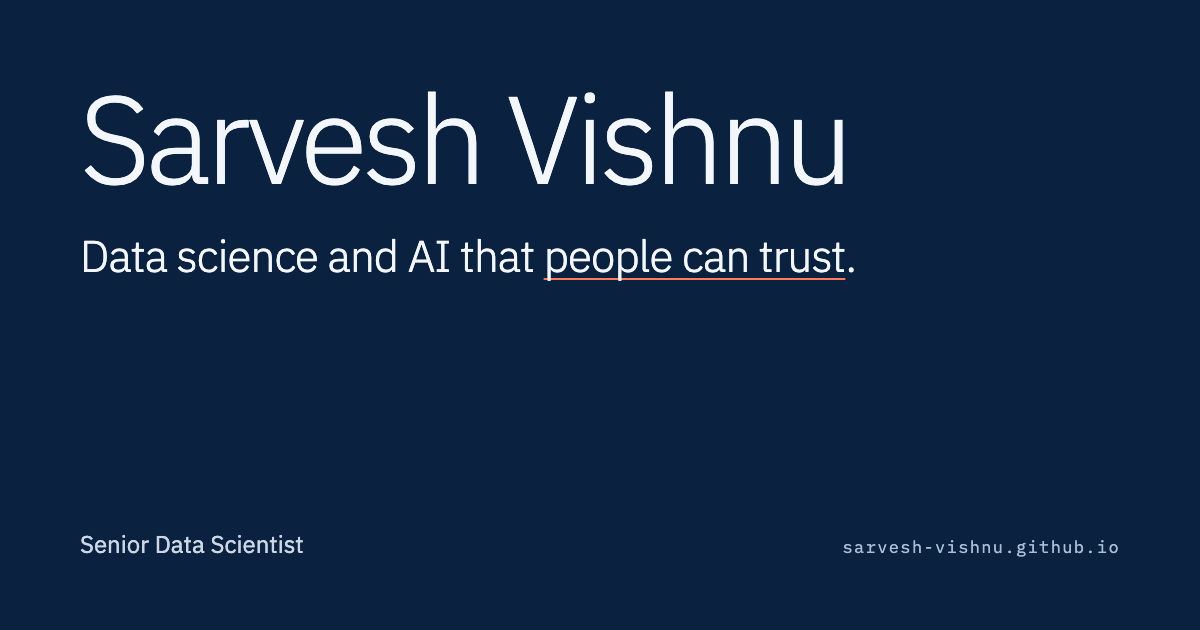
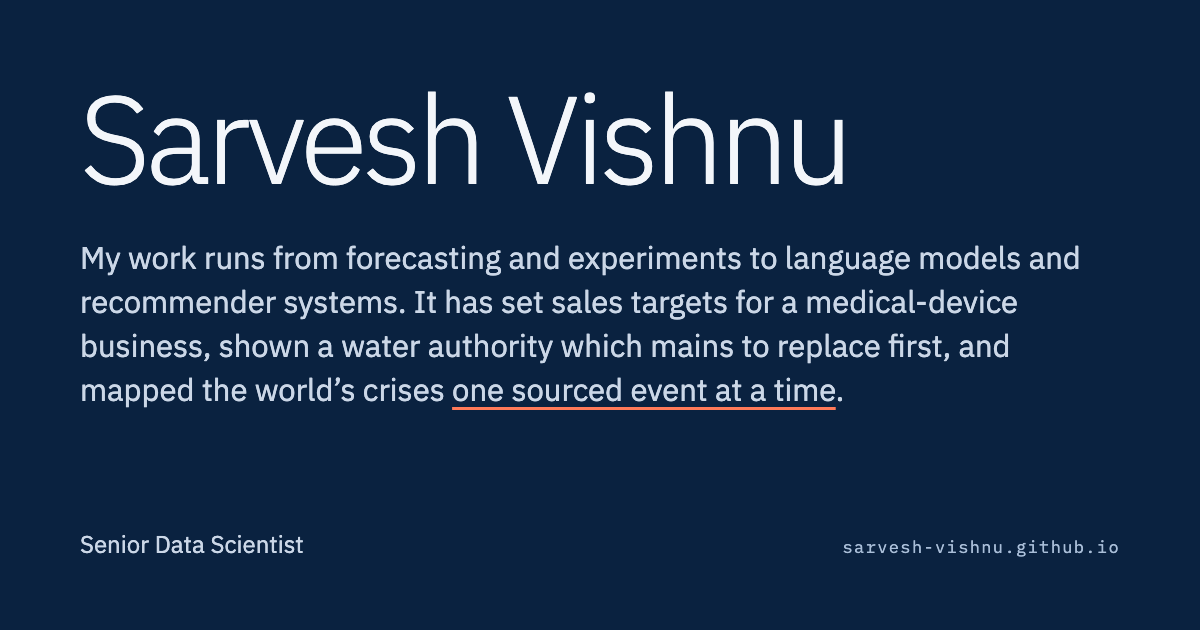
No stated claim in the hero: the name, then what the work has done
The line "Data science and AI that people can trust." is removed at the
owner's request: the value should show through the work, not be announced.
The redline moves into the paragraph, under "one sourced event at a time".
The paragraph steps up on a wide sheet. Descriptions and the share card
follow the page.

design.md §14.26.

Changed region(s): [[0.0617, 0.3619, 0.925, 0.573], [0.0617, 0.6032, 0.7092, 0.6635]]

diff --git a/styles.css b/styles.css
@@ -282,10 +282,11 @@ body {
 }
 
 /* -------------------------------------------------------------
-   Hero: the first sheet (design.md §14.16, §14.17, §14.24, §14.25)
-   The name, then one statement with a redline under what the work is
-   for, then two sentences of proof. Role and links along the foot.
-   No figure, no frame: the working models start one scroll down.
+   Hero: the first sheet (design.md §14.16, §14.17, §14.24 to §14.26)
+   The name, then two sentences on what the work has done, with the
+   redline under one phrase. Role and links along the foot. No claim
+   about the work is made here (§14.26): the working models start one
+   scroll down and make it themselves.
    ------------------------------------------------------------- */
 .hero {
   position: relative;
@@ -304,14 +305,19 @@ body {
   justify-content: space-between;
   gap: var(--space-16);
 }
-/* the name, the line and its proof travel together, centred above the foot (§14.25) */
+/* the name and the paragraph travel together, centred above the foot (§14.26) */
 .hero-say { margin-top: auto; margin-bottom: auto; }
 .hero-proof {
-  margin-top: var(--space-6);
-  max-width: 58ch;
-  font-size: var(--text-lg);
-  line-height: 1.5;
+  margin-top: var(--space-8);
+  max-width: 54ch;
+  font-size: clamp(var(--text-lg), 1.7vw, var(--text-xl));   /* it follows the name directly, so it steps up on a wide sheet */
+  line-height: 1.45;
   color: var(--ink-soft);
+}
+.hero-proof .redline {                               /* the mark is one stroke, never broken over two lines, */
+  white-space: nowrap;
+  text-decoration-thickness: max(0.055em, 2px);        /* and at reading size it keeps its weight */
+  text-underline-offset: 0.2em;
 }
 .hero-name {
   font-family: var(--font-sans);
@@ -323,16 +329,6 @@ body {
   color: var(--ink);
   text-wrap: balance;
 }
-.thesis {
-  margin-top: var(--space-6);
-  max-width: 30ch;
-  font-weight: 300;
-  font-size: clamp(22px, 2.7vw, var(--text-3xl));
-  line-height: 1.2;
-  letter-spacing: -0.02em;
-  color: var(--ink);
-}
-.thesis .redline { white-space: nowrap; }             /* the mark is one stroke, never broken over two lines */
 /* the redline: one mark, under the words the sentence is for */
 .redline {
   text-decoration: underline;
@@ -1453,7 +1449,6 @@ html.lenis, html.lenis body { height: auto; }
   .hero { min-height: 0; padding: 0 0 10pt; display: block; }
   .hero-inner { display: block; }
   .hero-name { font-size: 21pt; line-height: 1.12; margin: 0 0 3pt; }
-  .thesis { max-width: none; font-size: 12pt; line-height: 1.3; margin: 0 0 5pt; letter-spacing: 0; }
   .hero-say { margin: 0; }
   .hero-proof { display: none; }                      /* the printed page keeps to two sheets; the résumé itself is resume.html */
   .hero-id { display: block; }

diff --git a/index.html b/index.html
@@ -7,13 +7,13 @@
   <meta name="color-scheme" content="dark light" />
 
   <title>Sarvesh Vishnu, Senior Data Scientist</title>
-  <meta name="description" content="Sarvesh Vishnu, senior data scientist. Data science and AI that people can trust: forecasting, experiments, language models and recommender systems, for business, public services and the public interest." />
+  <meta name="description" content="Sarvesh Vishnu, senior data scientist. Forecasting, experiments, language models and recommender systems, for business, public services and the public interest." />
   <meta name="author" content="Sarvesh Vishnu Muhundu Parthiban" />
 
   <meta property="og:type" content="website" />
   <meta property="og:url" content="https://sarvesh-vishnu.github.io/" />
   <meta property="og:title" content="Sarvesh Vishnu, Senior Data Scientist" />
-  <meta property="og:description" content="Data science and AI that people can trust: forecasting, experiments, language models and recommender systems, for business, public services and the public interest." />
+  <meta property="og:description" content="Forecasting, experiments, language models and recommender systems, for business, public services and the public interest." />
   <meta property="og:image" content="https://sarvesh-vishnu.github.io/assets/og-image.png" />
   <meta property="og:image:width" content="1200" />
   <meta property="og:image:height" content="630" />
@@ -81,8 +81,7 @@
       <div class="hero-inner">
         <div class="hero-say">
           <h1 id="hero-title" class="hero-name">Sarvesh Vishnu</h1>
-          <p class="thesis">Data science and AI that <span class="redline">people can trust</span>.</p>
-          <p class="hero-proof">My work runs from forecasting and experiments to language models and recommender systems. It has set sales targets for a medical-device business, shown a water authority which mains to replace first, and mapped the world’s crises one sourced event at a time.</p>
+          <p class="hero-proof">My work runs from forecasting and experiments to language models and recommender systems. It has set sales targets for a medical-device business, shown a water authority which mains to replace first, and mapped the world’s crises <span class="redline">one sourced event at a time</span>.</p>
         </div>
         <div class="hero-id">
           <p class="hero-role">Senior Data Scientist, Strategy &amp; Market Insights at Cooper Surgical</p>

diff --git a/design.md b/design.md
@@ -1262,3 +1262,34 @@ arrangement the owner asked to change).
 
 **Open with the owner.** The résumé still spells "specialization" while the site uses
 British spellings; the owner has not said which to keep.
+
+### 14.26 — No stated claim in the hero
+*Changes: §14.24 and §14.25 (the hero's line). (2026-11-19)*
+
+**Why.** The owner, on seeing §14.25 built: remove "Data science and AI that people can
+trust." "I want it to reflect through the work and not something we draw out. We can
+use the underline accent to mark the text block underneath." This is the same call as
+the removal of "The rules I build by" in §14.17: a value is shown, not announced.
+
+**What changed.** The hero is the name, then the two sentences on what the work has
+done, then role and links along the foot. The paragraph follows the name directly, so
+on a wide sheet it steps up (20px to 25px) and its measure narrows to 54ch. The redline
+moves into the paragraph, under "one sourced event at a time": the one phrase in it
+that says how the work is done, in the work's own terms. It never breaks across two
+lines and keeps a 2px weight at reading size. The page description and the share
+description drop the sentence too. The share card is the name and the same paragraph,
+read from the page. Print: name, role, links (the paragraph was already left out).
+
+**Rule.** The site does not say that the work can be trusted. It names sources, labels
+what is invented, shows method without employer data, and computes the numbers it
+quotes. Do not bring back a values line in the hero or anywhere else without the
+owner asking for one.
+
+**Considered and rejected.** The redline under the range ("forecasting and experiments
+to language models and recommender systems": two lines of underline, heavy). Under "My
+work" (marks the block but says nothing). A short red rule above the paragraph (a new
+device; the redline is defined as a mark under words). Keeping the paragraph at 20px on
+a wide sheet (the drop from a 107px name was abrupt, the reason "name only" lost in
+§14.25).
+
+**Open with the owner.** Which words the redline sits under is my choice.
